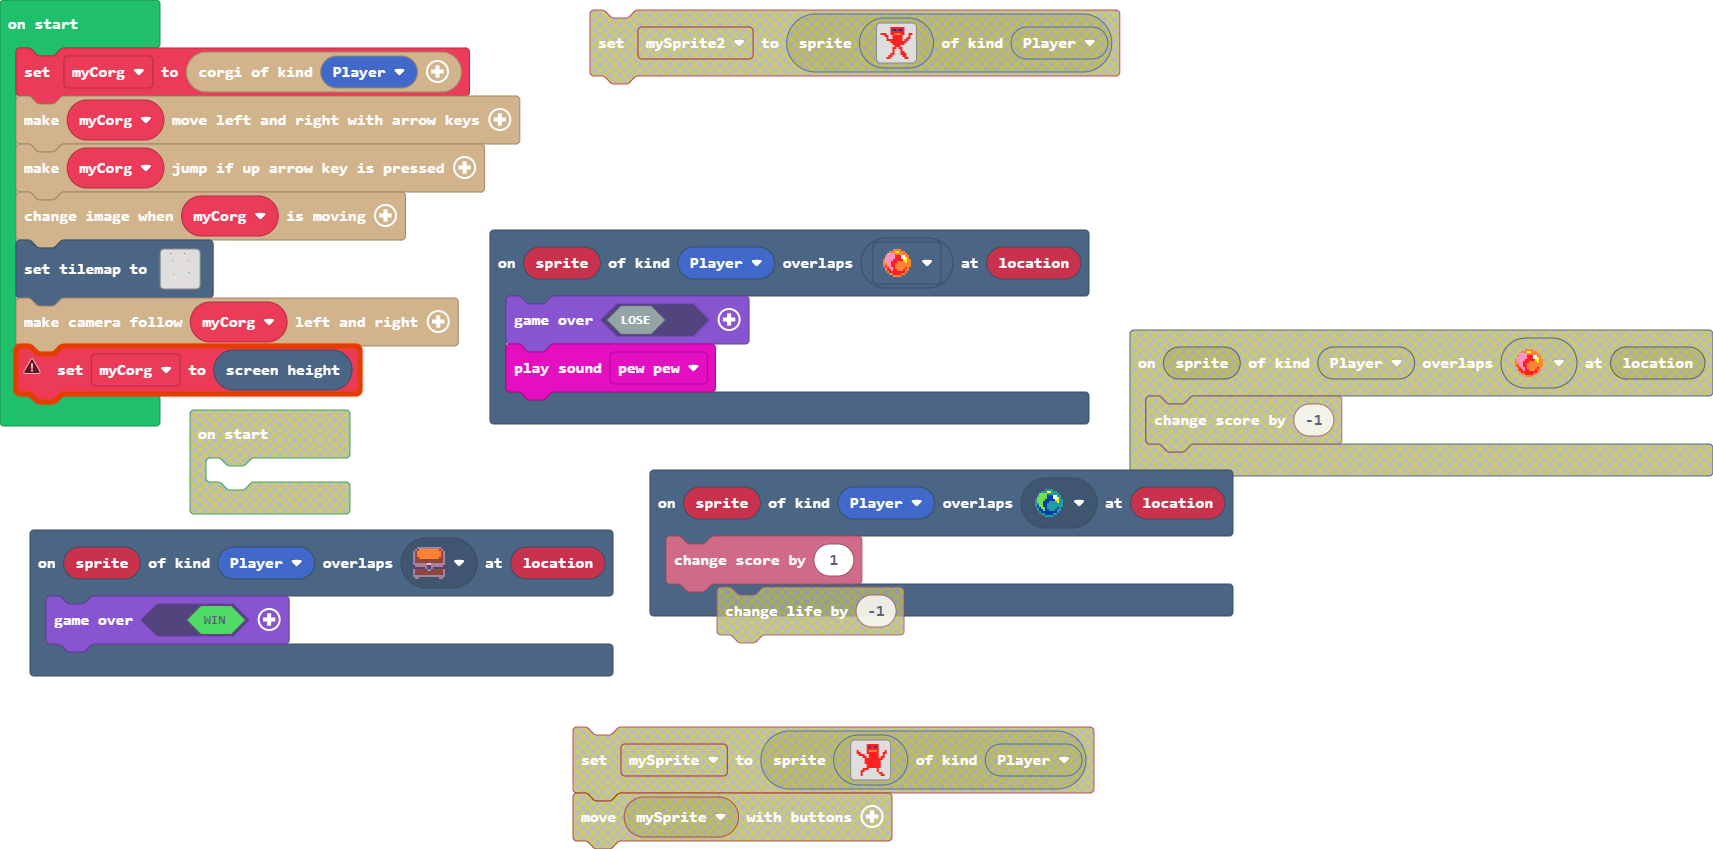
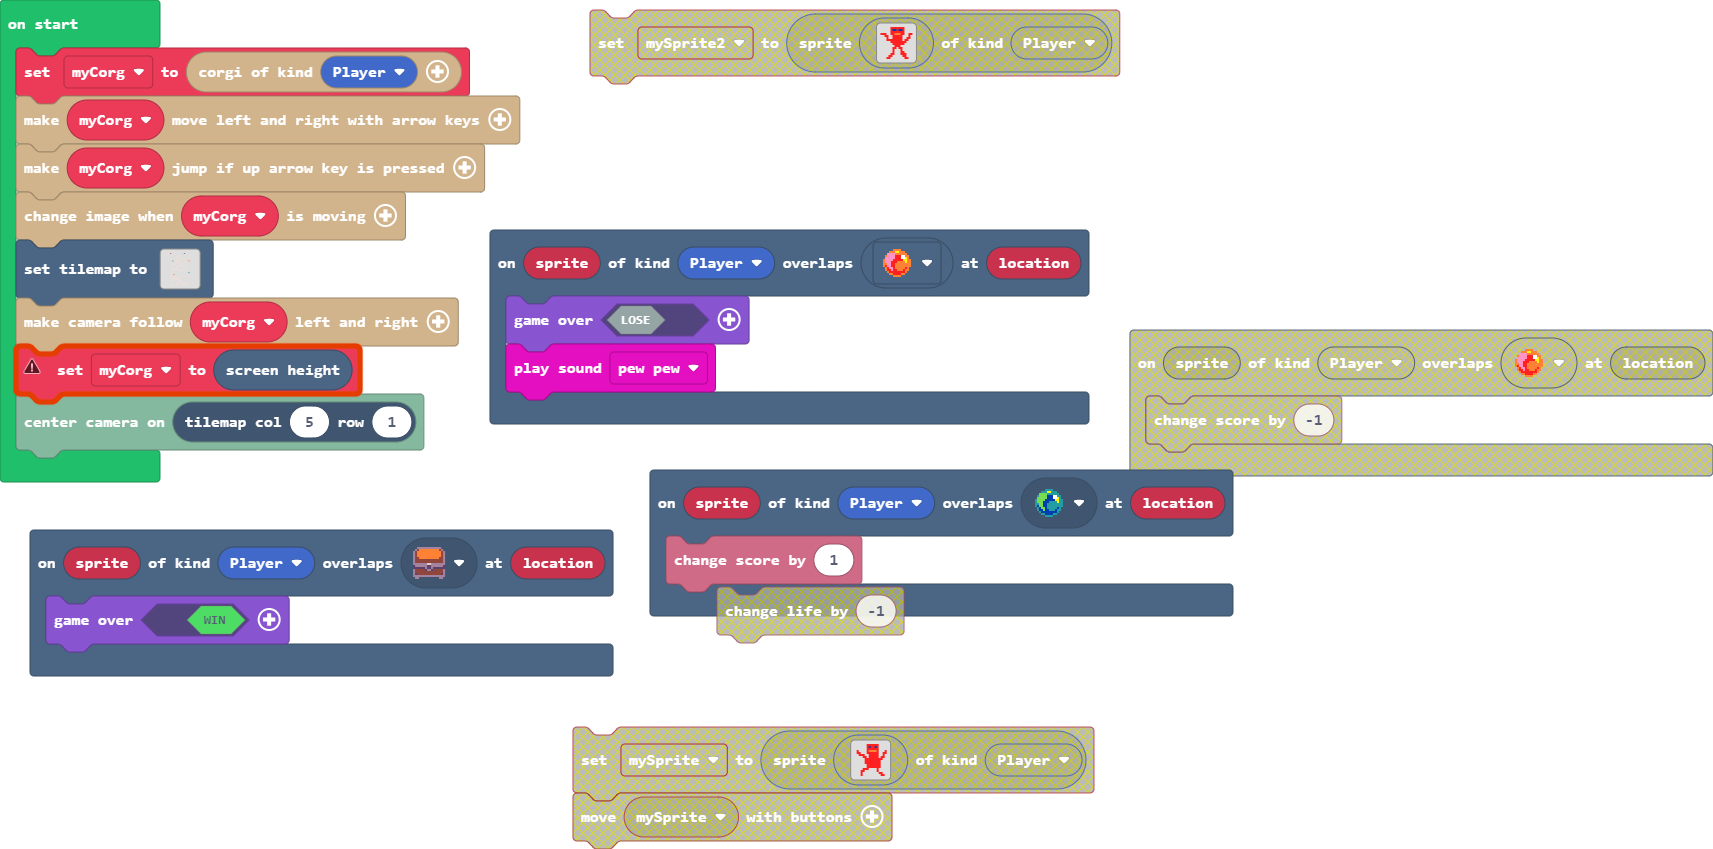
Update main.blocks, main.ts

Changed region(s): [[0.0, 0.4594, 0.2475, 0.6125]]

diff --git a/main.ts b/main.ts
@@ -15,3 +15,4 @@ myCorg.updateSprite()
 tiles.setTilemap(tilemap`level1`)
 myCorg.follow()
 myCorg = scene.screenHeight()
+tiles.centerCameraOnTile(tiles.getTileLocation(5, 1))
